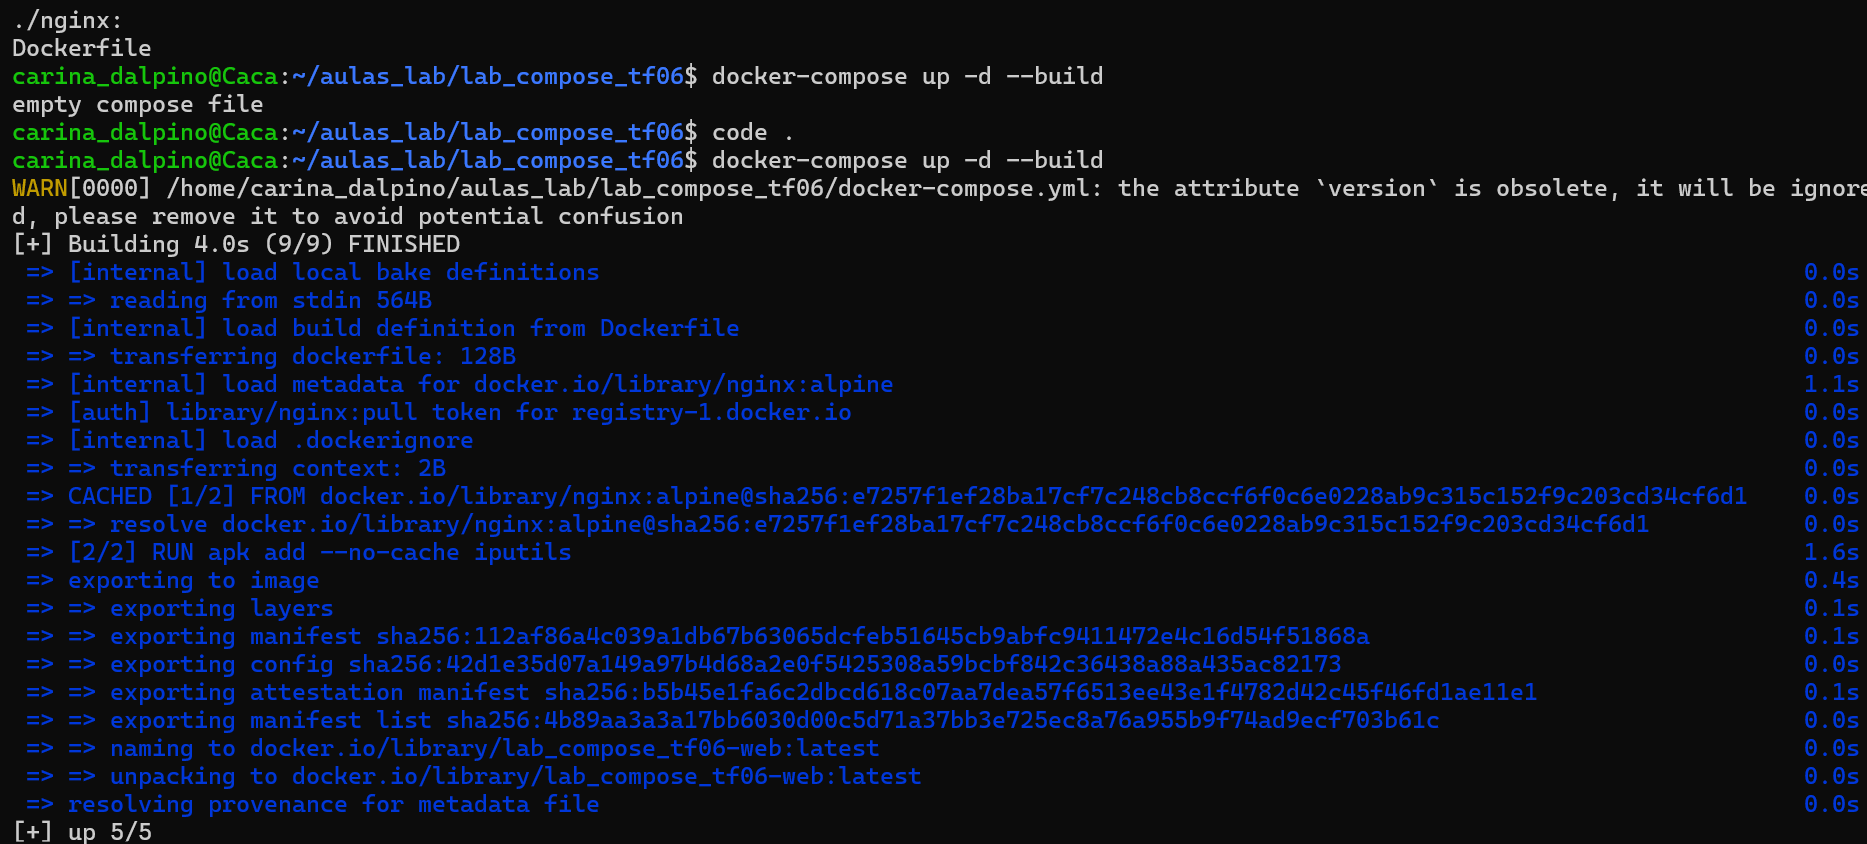
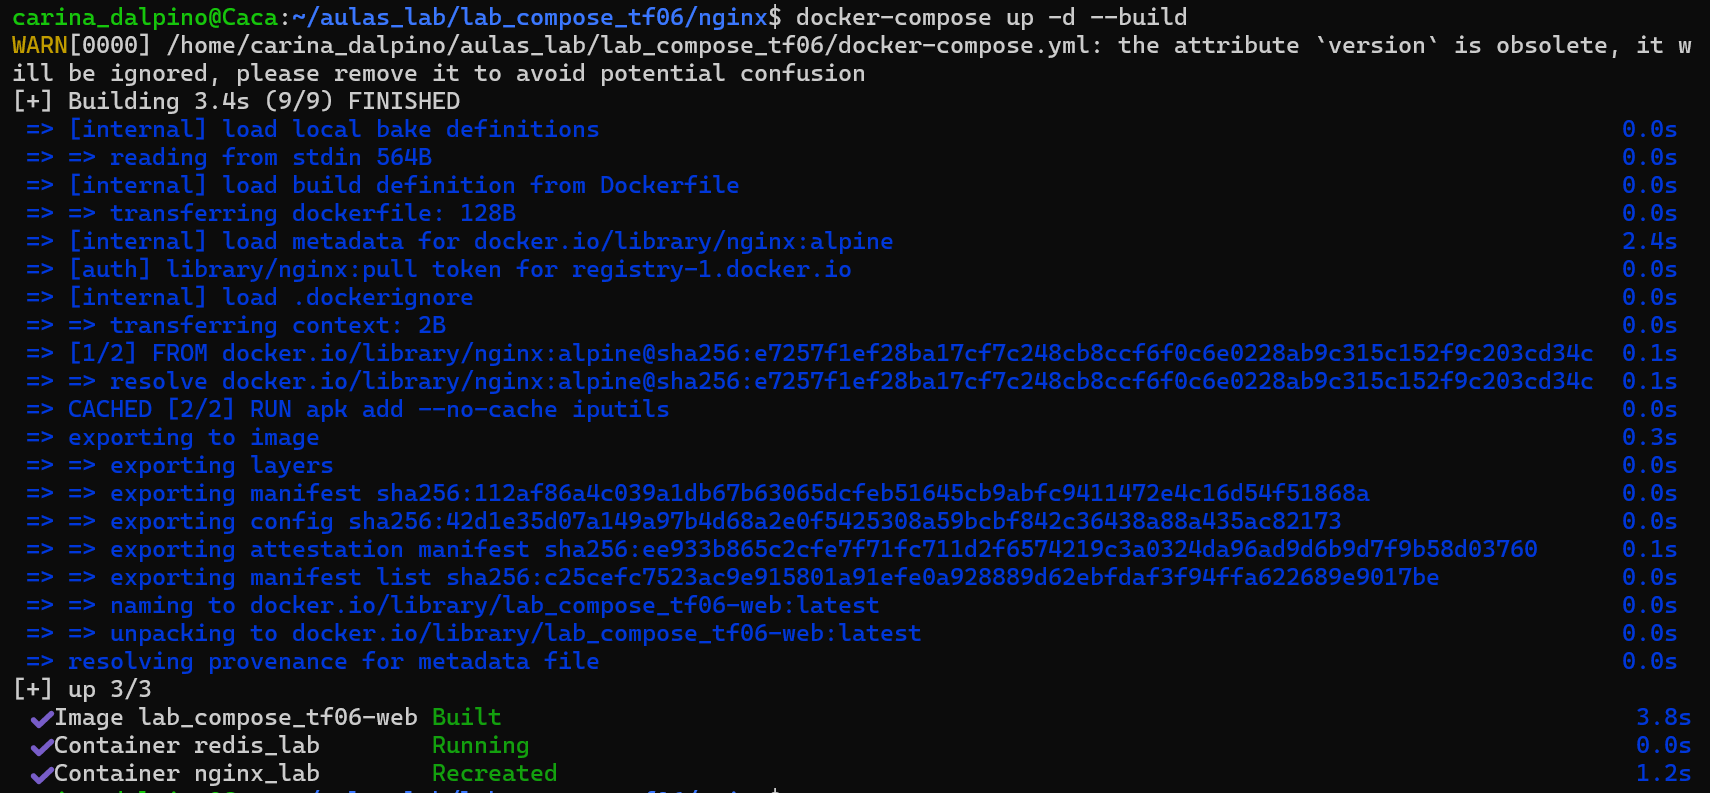
TF06 Docker atualizado

diff --git a/README.md b/README.md
@@ -2,10 +2,13 @@
 
 ## Subindo os containers
 docker-compose up -d
-![alt text](image-1.png)
+![alt text](image.png)
+
 ## Verificando containers
 docker-compose ps
-![alt text](image-2.png)
+![alt text](image-6.png)
+
 ## Teste de conectividade
 docker exec -it nginx_lab ping cache
-![alt text](image-3.png)
+
+![alt text](image-7.png)
